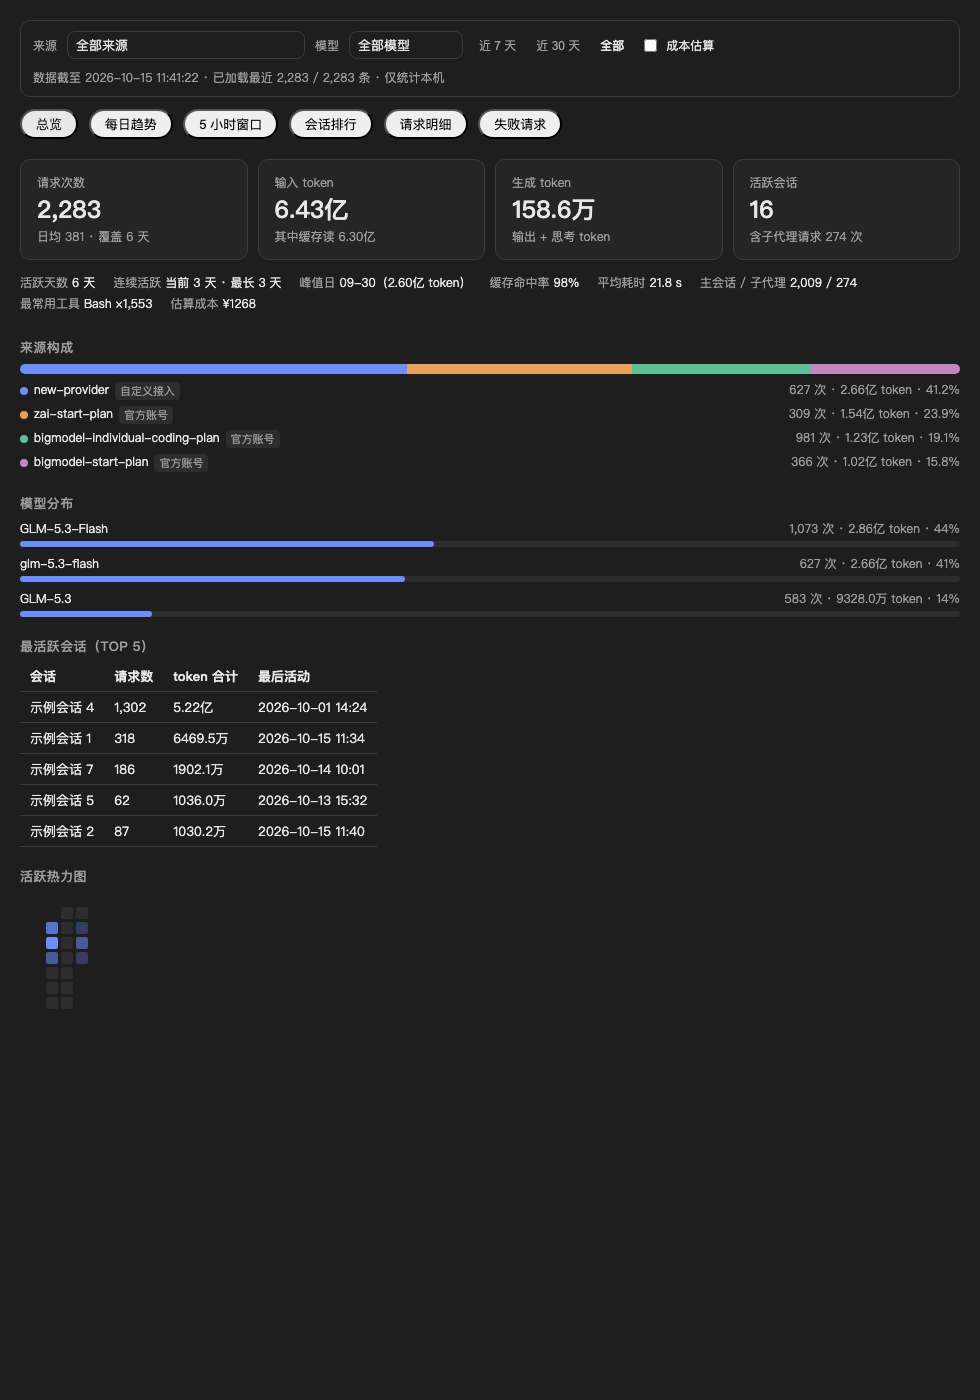
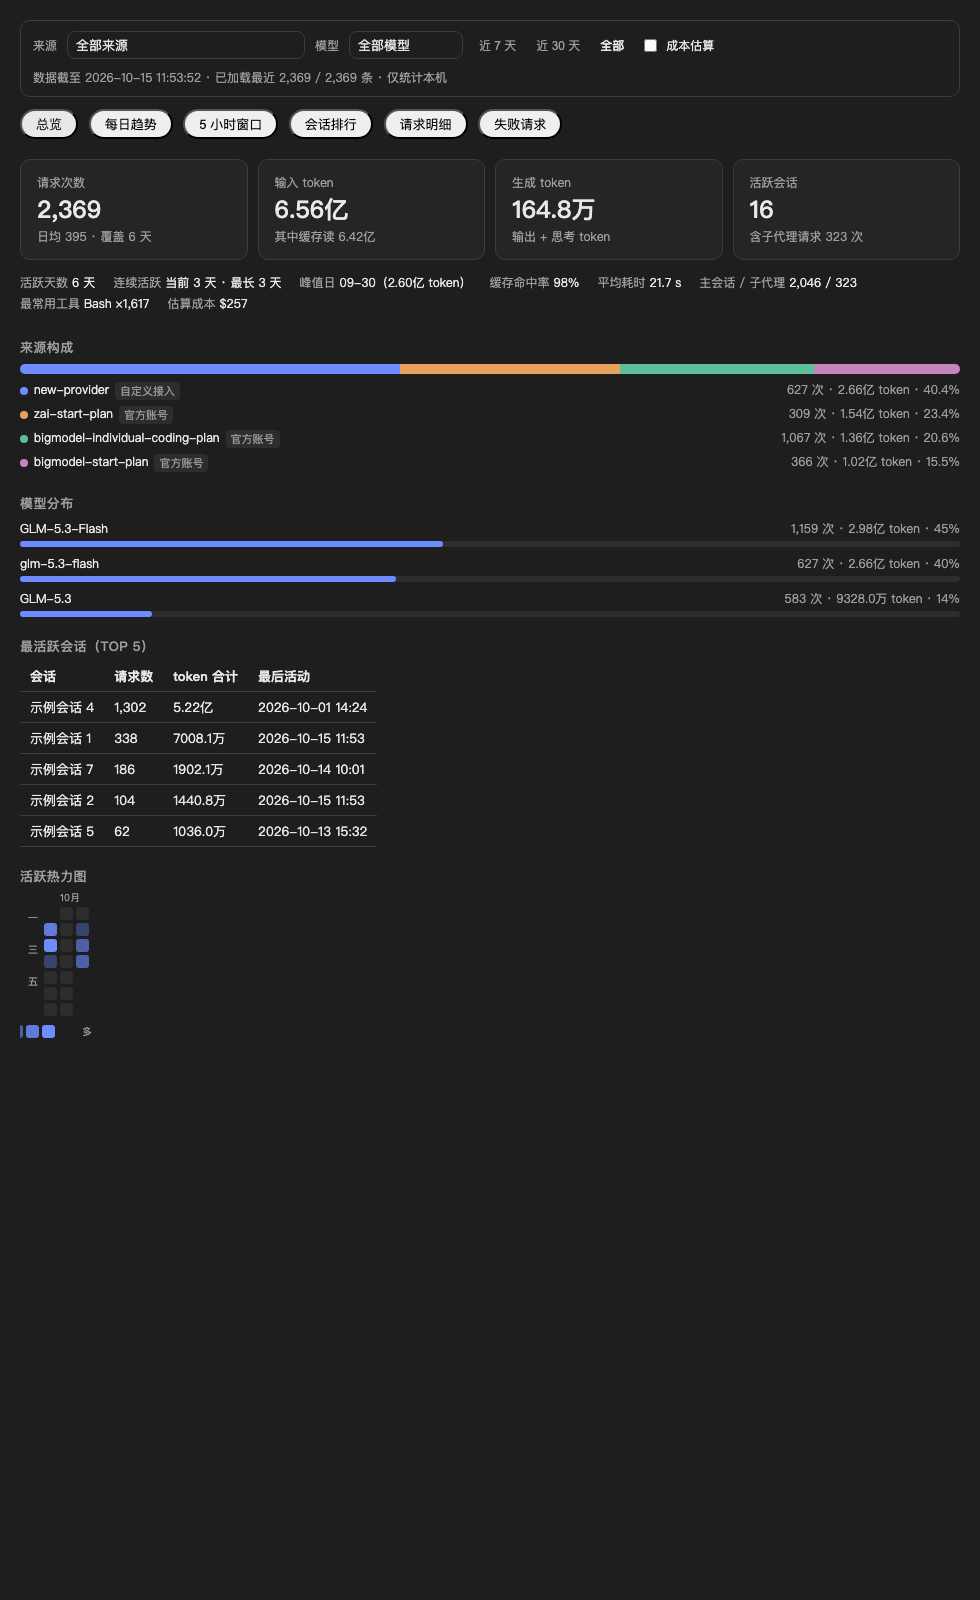
feat: 0.5.0 — live burn-rate monitor, official pricing from models.dev with sync, polished heatmap
- usage.sh live: terminal burn-rate monitor (3s refresh, index-only queries)
- built-in default price table (18 GLM models from models.dev), user override file,
  prices sync command merging official prices while keeping custom entries
- burn-rate card in 5h-window tab: current rate vs 3-window average with projection
- heatmap: GitHub-style weekday/month labels, less-more legend, 26-week cap

diff --git a/README.md b/README.md
@@ -8,6 +8,14 @@
 
 ![仪表盘总览](screenshots/dashboard-overview-dark.png)
 
+每日趋势按来源堆叠，官方套餐与 BYOK 一目了然：
+
+![每日趋势](screenshots/dashboard-trend-light.png)
+
+5 小时窗口实时燃烧率（当前速率 vs 近期窗口均值）：
+
+![5小时窗口](screenshots/dashboard-blocks-dark.png)
+
 ## 功能
 
 - **逐条明细**：每次模型请求一行——时间、会话、模型、来源、主会话/子代理、输入/生成/缓存读 token、耗时、状态
@@ -63,6 +71,7 @@ git clone https://github.com/axdlee/zcode-usage-detail.git
 | 输入 | 效果 |
 |---|---|
 | `/usage-ui` | 生成交互式仪表盘，内嵌渲染在会话中 |
+| `/usage-ui 8000` | 同上，内嵌最近 8000 条 |
 | `/usage` | 文本总览（累计 + 今日） |
 | `/usage blocks` | 5 小时窗口用量（含进行中的窗口） |
 | `/usage recent 50` | 最近 50 条逐条明细 |
@@ -70,22 +79,34 @@ git clone https://github.com/axdlee/zcode-usage-detail.git
 | `/usage months` | 按月汇总 |
 | `/usage projects 10` | 按项目目录汇总 Top 10 |
 | `/usage tools` | 工具调用统计 |
-| `/usage cost` | 成本估算（需先配置价格表，见下） |
+| `/usage cost` | 成本估算（内置官方价，可自定义价格表） |
+| `/usage prices sync` | 从 models.dev 同步最新官方价 |
 | `/usage export csv` | 导出全部记录为 CSV |
 | `/usage day 2026-10-14` | 某天的逐条明细 |
 | `/usage sessions 10` | 会话用量排行 Top 10 |
 | `/usage errors` | 最近的失败/取消请求 |
 | “看看我哪个会话最烧 token” | 自然语言同样可以，会自动路由到对应查询 |
 
-### 成本估算（可选）
+### 成本估算（默认官方价，可自定义）
 
-创建 `~/.zcode/usage-prices.json`（单位：元/百万 token，键为模型名，大小写不敏感，可只写常用模型）：
+价格表解析顺序：`ZCODE_USAGE_PRICES` 环境变量 → `~/.zcode/usage-prices.json`（你的自定义文件）→ 插件内置官方价（自动打包自 [models.dev](https://models.dev) 的 zai/zhipuai 官方牌价，美元/百万 token）。所以开箱即有官方价，无需任何配置。
 
-```json
-{ "GLM-5.3": {"in": 8, "out": 32, "cache": 2}, "GLM-5.3-Flash": {"in": 0.5, "out": 2, "cache": 0.1} }
-```
+- `usage.sh prices show` 查看当前生效的价格表
+- `usage.sh prices sync` 从 models.dev 同步最新官方价（保留你的自定义条目；需要 node + curl）
+- 自定义：编辑 `~/.zcode/usage-prices.json`，可加任意模型、改币种：
 
-配置后 `/usage cost` 给出按模型拆分的估算；仪表盘顶部出现"成本估算"开关，打开后会话排行与来源构成会追加成本列。注意：订阅套餐（如 GLM Coding Plan）内的请求实际不按 token 计费，估算仅供 BYOK 按量计费或心理参考。
+  ```json
+  { "currency": "USD",
+    "models": { "glm-5.3": {"in": 1.4, "out": 4.4, "cache": 0.26},
+                 "my-private-model": {"in": 1, "out": 3, "cache": 0.1} } }
+  ```
+
+配置后 `/usage cost` 按模型拆分估算；仪表盘顶部出现"成本估算"开关，打开后会话排行与来源构成追加成本列。注意：订阅套餐（如 GLM Coding Plan）内的请求实际不按 token 计费，估算仅供 BYOK 按量计费或心理参考。
+
+### 实时燃烧率监控
+
+- 仪表盘"5 小时窗口"页：当前窗口的燃烧率（token/小时）、时间进度条、与近 3 个完整窗口均值的对比和满窗预测
+- 终端实时监控（claude-monitor 风格）：`usage.sh live [秒]`，默认 3s 刷新、Ctrl-C 退出；只查最近 5h/48h 数据并走索引，开销极低，适合挂在一个终端角落
 
 ### 仪表盘预览
 

diff --git a/usage-detail/skills/usage-detail/SKILL.md b/usage-detail/skills/usage-detail/SKILL.md
@@ -26,7 +26,9 @@ bash "<本技能目录>/../../scripts/usage.sh" <子命令> [参数]
 | `months` | 按月汇总 | "这个月用了多少" |
 | `projects [N]` | 按项目目录汇总 Top N（默认 15） | "哪个项目最烧 token" |
 | `tools [N]` | 工具调用统计 Top N（默认 15） | "最常用的工具是什么" |
-| `cost` | 成本估算（需价格表 ~/.zcode/usage-prices.json） | "估算一下花了多少钱" |
+| `cost` | 成本估算（默认内置 models.dev 官方价，~/.zcode/usage-prices.json 可覆盖/扩展） | "估算一下花了多少钱" |
+| `prices [show\|sync]` | 查看价格表 / 从 models.dev 同步官方价 | "更新一下官方价格" |
+| `live [秒]` | 终端实时燃烧率监控（默认 3s 刷新）。**只在用户明确要实时监控且在终端运行时使用，不要在会话里执行（会一直阻塞）** | "帮我盯着燃烧率" |
 | `export csv\|json [路径]` | 导出全部记录 | "导出成 CSV" |
 | `recent [N]` | 最近 N 条逐条明细（默认 20） | "看每条记录"、"最近 50 条" |
 | `day [YYYY-MM-DD]` | 某天逐条明细（缺省今天） | "今天用了多少"、"看 10 月 14 日的" |
